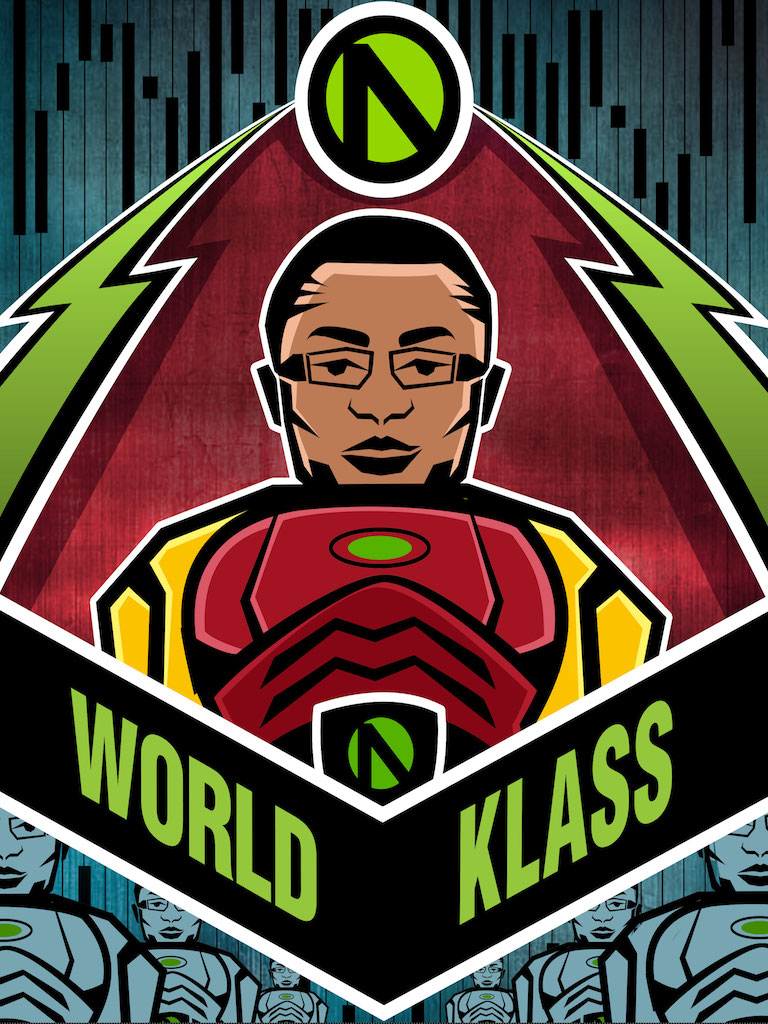
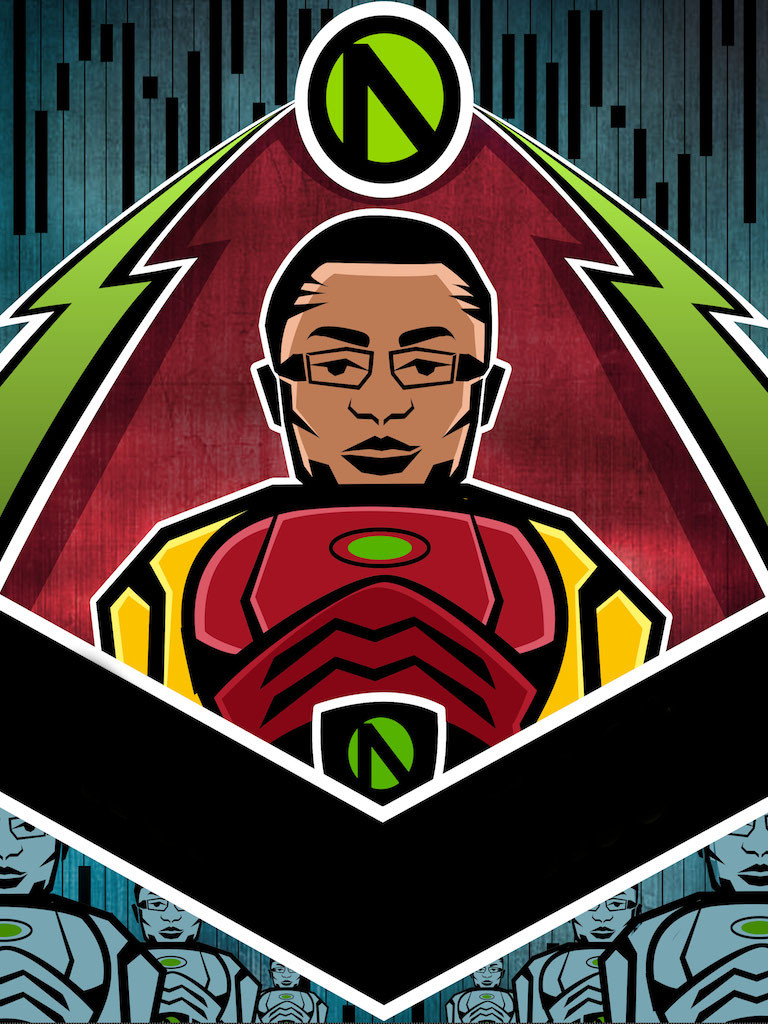
indicate which player won on victory screen
TODO:
- flip the image towards the winning player

Changed region(s): [[0.0938, 0.6562, 0.4375, 0.9062], [0.5938, 0.6875, 0.875, 0.9062], [0.125, 0.625, 0.1562, 0.6562]]

diff --git a/app/styles/main.css b/app/styles/main.css
@@ -44,7 +44,23 @@ body {
   border: solid 1px white;
 }
 
+#victory .left {
+  position: absolute;
+  top: 69%;
+  left: 3%;
+  font-size: 2em;
+  -webkit-transform-origin: 0 0;
+  -webkit-transform: skewY(30deg) scaleY(3);
+}
 
+#victory .right {
+  position: absolute;
+  top: 89%;
+  left: 53%;
+  font-size: 2em;
+  -webkit-transform-origin: 0 0;
+  -webkit-transform: skewY(-30deg) scaleY(3);
+}
 /* screen transitions */
 body[data-show=splash] #splash {
   display: block;

diff --git a/app/index.html b/app/index.html
@@ -29,6 +29,8 @@
         </section>
         <section id="victory" class="screen">
             <img src="images/worldklass.jpg" width="768" height="1024">
+            <div class="left">WORLD KLASS</div>
+            <div class="right">PLAYER <span id="playerId"></span></div>
         </section>
 
         <!-- Google Analytics: change UA-XXXXX-X to be your site's ID -->
